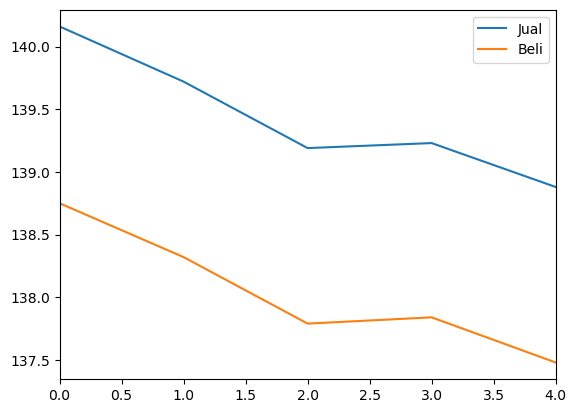
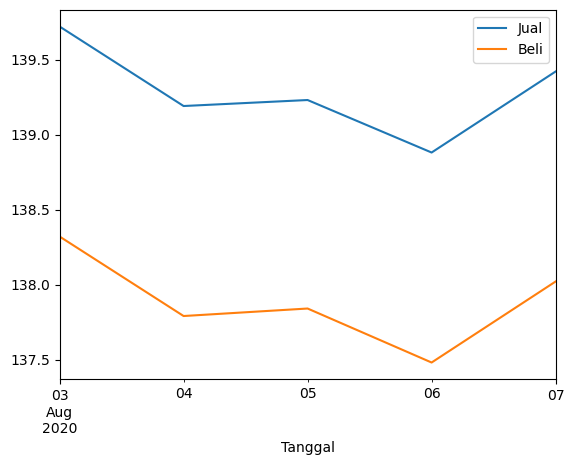
Add updated files via upload
Add the latest file

diff --git a/Ignatius_Kevin_app.py b/Ignatius_Kevin_app.py
@@ -1,6 +1,7 @@
 from flask import Flask, render_template 
 import pandas as pd
 import requests
+import dateparser
 from bs4 import BeautifulSoup 
 from io import BytesIO
 import base64
@@ -39,7 +40,8 @@ def scrap(url):
     df['Beli'] = df['Beli'].str.replace(",",".")
     df['Jual'] = df['Jual'].astype('float64')
     df['Beli'] = df['Beli'].astype('float64')
-    df.set_index("Tanggal")
+    df['Tanggal'] = df['Tanggal'].apply(dateparser.parse)
+    
 
     return df
 
@@ -49,7 +51,7 @@ def index():
 
     #This part for rendering matplotlib
     fig = plt.figure(figsize=(5,2),dpi=300)
-    df.plot()
+    df.set_index("Tanggal").plot()
     
     #Do not change this part
     plt.savefig('plot1',bbox_inches="tight") 
